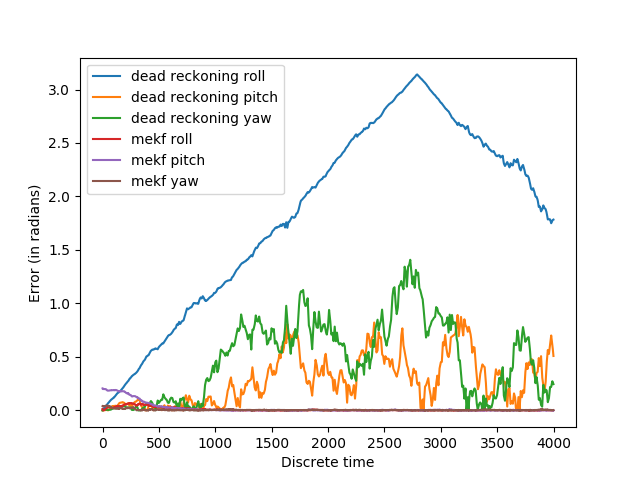
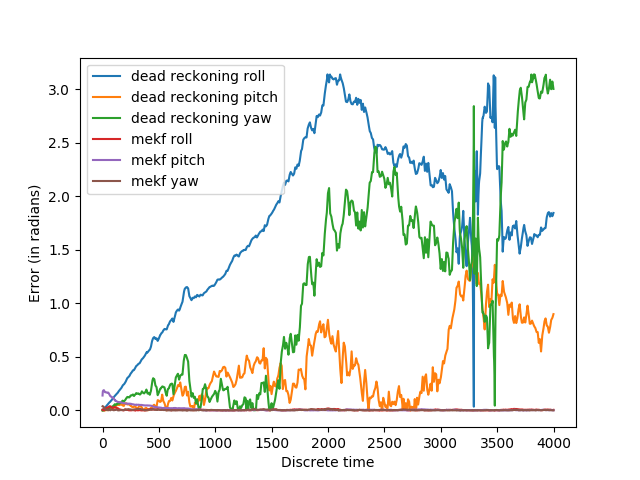
Fixed covariance matrix

diff --git a/_posts/2020-07-18-mekf.md b/_posts/2020-07-18-mekf.md
@@ -89,6 +89,20 @@ so,
 $$ G = \begin{pmatrix}-[\boldsymbol{\hat{\omega}} \times]  & 0 & 0 & -I & 0 \\ -R_b^i (\hat{q})[\boldsymbol{\hat{f}}^b \times] & 0 & 0 & 0 & - R_b^i(\hat{q}) \\
 0 & I & 0 & 0 & 0 \\ 0 & 0 & 0 & 0 & 0 \\ 0 & 0 & 0 & 0 & 0 \end{pmatrix} $$
 
+and
+
+$$ Q_k = \int_0^{\Delta t} e^{F(t-\tau)} Q_c e^{F^T(t-\tau)} d\tau $$
+
+where
+
+$$Q_c = \begin{pmatrix} diag(\sigma_{\omega}^2) & 0 & 0 & 0 & 0 & 0 \\ 0 & diag(\sigma_{f}^2) & 0 & ) & 0 & 0 \\ 0 & 0 & 0 & 0 & 0 & 0 \\ 0 & 0 & 0 & diag(\sigma_{\beta_{\omega}}^2) & 0 & 0 \\ 0 & 0 & 0 & 0 & diag(\sigma_{\beta_{f}}^2) & 0 \\ 0 & 0 & 0 & 0 & 0 & diag(\sigma_{\beta_{m}}^2) \end{pmatrix}$$
+
+We can linearise $F$ around $\hat{\omega} = \hat{f} = 0 $ and $ R_i^b(\hat{q}) = I $ to obtain:
+
+$$ Q_k = \begin{pmatrix} \wedge(\sigma_{\omega}^2) \Delta t + \wedge(\sigma_{\beta_{\omega}}^2) \frac{\Delta t^3}{3} & 0 & 0 & -\wedge(\sigma_{\beta_{\omega}}^2) \frac{\Delta t^2}{2} & 0 & 0 \\ 0 & \wedge(\sigma_f^2) \Delta t + \wedge(\sigma_{\beta_{f}}^2) \frac{\Delta t^3}{3} & \wedge(\sigma_{\beta_{f}}^2) \frac{\Delta t^4}{8} + \wedge(\sigma_{f}^2) \frac{\Delta t^2}{2} & 0 & -\wedge(\sigma_{\beta_{f}}^2) \frac{\Delta t^2}{2} & 0 \\ 0 & \wedge(\sigma_f^2) \frac{\Delta t^2}{2} + \wedge(\sigma_{\beta_{f}}^2) \frac{\Delta t^4}{8} & \wedge(\sigma_{f}^2) \frac{\Delta t^3}{3} + \wedge(\sigma_{\beta_f}^2) \frac{\Delta t^5}{20} & 0 & -\wedge(\sigma_{\beta_{f}}^2) \frac{\Delta t^3}{6} & 0 \\ -\wedge(\sigma_{\beta_{\omega}}^2) \frac{\Delta t^2}{2} & 0 & 0 & \wedge(\sigma_{\beta_{\omega}}^2) \frac{\Delta t^2}{2} & 0 & 0 \\ 0 & -\wedge(\sigma_{\beta_f}^2) \frac{\Delta t^2}{2} & -\wedge(\sigma_{\beta_f}^2) \frac{\Delta t^3}{6} & 0 & \wedge(\sigma_{\beta_{f}}^2) \Delta t & 0 \\ 0 & 0 & 0 & 0 & 0 & \wedge(\sigma_{\beta_m}^2) \Delta t \end{pmatrix} $$
+
+where $$ \wedge(\boldsymbol{x}) = \begin{pmatrix} x_0 & 0 & 0 \\ 0 & x_1 & 0 \\ 0 & 0 & x_2 \end{pmatrix} $$
+
 For the accelerometer observation,
 
 $$ \delta \boldsymbol{f}^b = - \boldsymbol{\alpha} \times R_i^b(\hat{q}) \begin{pmatrix} 0 \\ 0 \\ -g \end{pmatrix} + \boldsymbol{\beta_f} + \boldsymbol{\eta_f} $$
